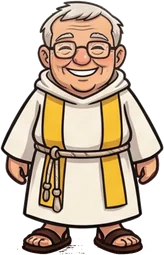
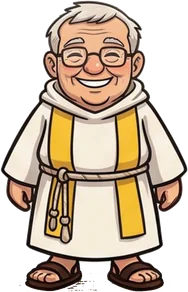
Retaule: es treu l'halo extra de la porta oberta; el Pare Daniel, una mica més gran
Claude-Session: https://claude.ai/code/session_01XG6id4poXzftjgXfUtQcNA

diff --git a/js/assets.js b/js/assets.js
@@ -18,7 +18,7 @@ const CATALEG = [
     // Personatges
     { key: 'pare_jordi',   file: 'assets/personatges/pare_jordi.webp',   amplada: 76, provisional: (c, w) => dibuixarMonjo(c, w, { habit: '#1d1b22', alt: 1.08, ulleres: true, cabell: '#9c9c9c' }) },
     { key: 'germa_andreu', file: 'assets/personatges/germa_andreu.webp', amplada: 84, provisional: (c, w) => dibuixarMonjo(c, w, { habit: '#2a2230', cabell: '#d8d8dc', ulleres: true, pilota: true }) },
-    { key: 'pare_daniel',  file: 'assets/personatges/pare_daniel.webp',  amplada: 82, provisional: (c, w) => dibuixarMonjo(c, w, { habit: '#1d1b22', cabell: '#5a4636' }) },
+    { key: 'pare_daniel',  file: 'assets/personatges/pare_daniel.webp',  amplada: 94, provisional: (c, w) => dibuixarMonjo(c, w, { habit: '#1d1b22', cabell: '#5a4636' }) },
     { key: 'monja_pains',   file: 'assets/personatges/monja_pains.png',   amplada: 110, provisional: (c, w) => dibuixarMonja(c, w, { cadira: true, cabell: '#e8e8e8', ample: 0.95 }) },
     { key: 'monja_charm',   file: 'assets/personatges/monja_charm.png',   amplada: 110, provisional: (c, w) => dibuixarMonja(c, w, { cabell: '#6a4a2e', ample: 1.45, alt: 0.92 }) },
     { key: 'monja_phili',   file: 'assets/personatges/monja_phili.png',   amplada: 96,  provisional: (c, w) => dibuixarMonja(c, w, { cabell: '#3b2a1e', ulleres: true, ample: 0.8, alt: 1.06 }) },

diff --git a/js/progres.js b/js/progres.js
@@ -132,7 +132,7 @@ const PROGRES = {
         { id: 'taverna', marca: ['tavernaOberta', 'evaParlat'], obert: E => E.flag('clauerNovici'), fet: E => E.flag('evaParlat'),
           pista: E => "El Sardin berenava cada tarda a la Taverna amb l'Eva. La porta és tancada, però truca: potser l'Eva et deixa entrar." },
         { id: 'rellotge', marca: ['rellotgeReparat'], obert: E => E.flag('rellotgeDit'), fet: E => E.flag('rellotgeReparat'),
-          pista: E => "El rellotge del campanar s'ha aturat a les tres i quart. Al Santuari, la porta de la dreta del retaule brilla amb una llum daurada: puja per la torre fins a la Sala del Rellotge. Allà, una nota clavada a la paret diu en quin ordre van els engranatges." },
+          pista: E => "El rellotge del campanar s'ha aturat a les tres i quart. Al Santuari, la porta de la dreta del retaule és oberta: puja per la torre fins a la Sala del Rellotge. Allà, una nota clavada a la paret diu en quin ordre van els engranatges." },
         { id: 'tresor', marca: ['tresorObert'], obert: E => E.flag('cantPedres'), fet: E => E.flag('tresorObert'),
           pista: E => "Diuen que a la façana del Santuari hi ha una pedra que escolta el Cant de les Pedres." },
         { id: 'nena', marca: ['nenaVista', 'llac1', 'llac2', 'nenaAlliberada'], obert: E => E.flag('nenaVista'), fet: E => E.flag('nenaAlliberada'),

diff --git a/js/zones/provisionals.js b/js/zones/provisionals.js
@@ -146,13 +146,6 @@ class ZonaEsglesia extends ZonaBase {
     obrirPortaRellotge(avis) {
         if (this.portaRellotge || !(Estat.flag('rellotgeDit') || Estat.flag('rellotgeReparat'))) return;   // (partides velles: ja hi havien pujat)
         this.portaRellotge = true;
-        if (!Estat.flag('rellotgeReparat')) {                       // una llum daurada i unes espurnes assenyalen la porta de la torre
-            const x = ESG.portaDx, y = ESG.retY + 50;
-            this.cuaRellotge = this.add.ellipse(x, y - 40, 150, 210, 0xffd060, 0.34).setDepth(ESG.retY + 90).setBlendMode('ADD');
-            this.tweens.add({ targets: this.cuaRellotge, alpha: 0.04, yoyo: true, repeat: -1, duration: 1000, ease: 'Sine.easeInOut' });
-            this.add.particles(x, y - 60, 'espurna', { x: { min: -40, max: 40 }, speedY: { min: -40, max: -14 }, lifespan: 1700, scale: { start: 0.32, end: 0 },
-                alpha: { start: 0.9, end: 0 }, tint: [0xffe08a, 0xffffff], frequency: 380, blendMode: 'ADD' }).setDepth(ESG.retY + 91);
-        }
         this.retaule.setTexture('retaule_obert').setScale(this.textures.get('retaule_obert').customData.escala || 1 / RES);   // el gràfic amb la porta oberta
         this.sortida(ESG.portaDx - 36, ESG.retY - 14, 72, 20, 'ZonaTorre', 'baix');
         if (avis) {

diff --git a/index.html b/index.html
@@ -43,11 +43,11 @@
     <!-- L'ordre importa: cada fitxer fa servir coses dels anteriors -->
     <script src="js/sfx.js?v=4"></script>
     <script src="js/partida.js?v=1794100005"></script>
-    <script src="js/progres.js?v=11"></script>
+    <script src="js/progres.js?v=1792962257"></script>
     <script src="js/dibuixos.js?v=1792957597"></script>
     <script src="js/dibuixos_biblio.js?v=1792961611"></script>
     <script src="js/dibuixos_cela.js?v=1792962107"></script>
-    <script src="js/assets.js?v=1792962107"></script>
+    <script src="js/assets.js?v=1792962257"></script>
     <script src="js/dialegs.js?v=1792961503"></script>
     <script src="js/ui.js?v=1792920884"></script>
     <script src="js/zona_base.js?v=1792957315"></script>
@@ -55,7 +55,7 @@
     <script src="js/combat.js?v=1792951993"></script>
     <script src="js/musica.js?v=4"></script>
     <script src="js/zones/placa.js?v=1794100006"></script>
-    <script src="js/zones/provisionals.js?v=1792961611"></script>
+    <script src="js/zones/provisionals.js?v=1792962257"></script>
     <script src="js/zones/nord.js?v=1792962107"></script>
     <script src="js/zones/cirosa.js?v=1792957501"></script>
     <script src="js/estels.js?v=5"></script>

diff --git a/GUIO.md b/GUIO.md
@@ -243,5 +243,5 @@ S'obre amb el medalló del sarró (o **I**; **M** obre el mapa; **◀ ▶** canv
 El Diari (Encàrrecs) mostra el premi de cada missió.
 
 **Pistes repensades**
-- *Rellotge:* el Pare Daniel en parla ja a la primera conversa, la porta de la dreta del retaule **brilla** amb una llum daurada i espurnes, i la pista de les Tietes explica on és la nota dels engranatges.
+- *Rellotge:* el Pare Daniel en parla ja a la primera conversa, la porta de la dreta del retaule **s'obre** (sense cap resplendor addicional), i la pista de les Tietes explica on és la nota dels engranatges.
 - *Rovellonera:* un **cartell** a la primera clariana explica la regla («els rovellons creixen vora el bon camí»), la Nena ho repeteix, els rovellons són més visibles i, si l'Ineu s'ha perdut **dues vegades o més**, unes **llumetes daurades** assenyalen la sortida bona.
